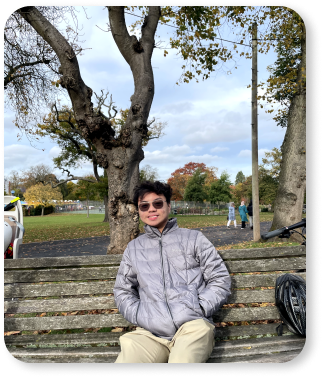
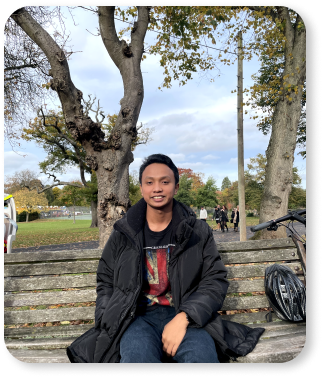
fix member info and picture, navbar to sticky

diff --git a/frontend-app/src/components/Homepage/OrgMember.jsx b/frontend-app/src/components/Homepage/OrgMember.jsx
@@ -44,7 +44,7 @@ const festivalIndonesia = [
 const talentSportsHobby = [
     {
         Nama: "Sandi Fajar Pratama",
-        Posisi: "Kepala Divisi Talent, Sports, and Hobby",
+        Posisi: "Head of Talent, Sports, and Hobby",
         Picture: orgMemberImgs["tsh_1.png"],
     },
     {
@@ -62,7 +62,7 @@ const talentSportsHobby = [
 const hwfk = [
     {
         Nama: "Arifah Rahmi",
-        Posisi: "Kepala Divisi Health, Wellbeing, Family and Kids",
+        Posisi: "Head of Health, Wellbeing, Family and Kids",
         Picture: orgMemberImgs["hwfk_1.png"],
     },
     {
@@ -75,7 +75,7 @@ const hwfk = [
 const entrepreunership = [
     {
         Nama: "Micha Paramitha",
-        Posisi: "Kepala Divisi Entrepreneurship",
+        Posisi: "Head of Entrepreneurship",
         Picture: orgMemberImgs["entre_1.png"],
     },
     {
@@ -98,7 +98,7 @@ const entrepreunership = [
 const socmed = [
     {
         Nama: "Keysha Aira Rizki Riyadi",
-        Posisi: "Kepala Divisi Social Media and Public Relations",
+        Posisi: "Head of Social Media and Public Relations",
         Picture: orgMemberImgs["socmed_1.png"],
     },
     {
@@ -126,7 +126,7 @@ const socmed = [
 const profDev = [
     {
         Nama: "Fildzah Cindra Yunita",
-        Posisi: "Kepala Divisi Professional Development and Institutional Affairs",
+        Posisi: "Head of Professional Development and Institutional Affairs",
         Picture: orgMemberImgs["profDev_1.png"],
     },
     {
@@ -144,7 +144,7 @@ const profDev = [
 const orgDev = [
     {
         Nama: "Fakhruddin Wirakusuma",
-        Posisi: "Kepala Divisi Organisational Development and Engagement",
+        Posisi: "Head of Organisational Development and Engagement",
         Picture: orgMemberImgs["orgDev_1.png"],
     },
     {
@@ -154,14 +154,14 @@ const orgDev = [
     },
     {
         Nama: "Andrea Nabilla Supit",
-        Posisi: "",
+        Posisi: "Head of Organisational Development Strategy Subdivision",
         Picture: orgMemberImgs["orgDev_3.png"],
     },
 ];
 
 const academic = [
     {
-        Nama: "Anisa Nurfirda Ramadhani",
+        Nama: "Anisa Nurfirda Ramdhani",
         Posisi: "Head of Academic Support, Data, and Information",
         Picture: orgMemberImgs["academic_1.png"],
     },
@@ -182,9 +182,11 @@ const academic = [
     },
 ];
 
-const generateCards = (members) =>
-    members.map((member) => (
+const generateCards = (members, name) =>
+    members.map((member, index) => (
         <CardProfile
+            team={name}
+            index={index}
             nama={member.Nama}
             posisi={member.Posisi}
             picture={member.Picture}
@@ -200,12 +202,3 @@ export const socmedCards = generateCards(socmed);
 export const profDevCards = generateCards(profDev);
 export const orgDevCards = generateCards(orgDev);
 export const academicCards = generateCards(academic);
-
-// const OrgMember = (org) => {
-//     switch (org) {
-//         case "bph":
-//             return bph;
-//         case "talentSportsHobby":
-//             return talentSportsHobby;
-//     }
-// };

diff --git a/frontend-app/src/components/PPIHeader.jsx b/frontend-app/src/components/PPIHeader.jsx
@@ -1,18 +1,25 @@
-import React from "react";
+import React, { useEffect } from "react";
 import logo_ppi from "../image/logo_ppi.png";
 import Navbar from "react-bootstrap/Navbar";
 import Nav from "react-bootstrap/Nav";
 import NavbarBrand from "react-bootstrap/esm/NavbarBrand";
 
 const PPIHeader = () => {
+    const currentLocation = window.location.href.split("/");
+    useEffect(() => {
+        const test =
+            currentLocation[currentLocation.length - 1] === "" ? "#home" : "/";
+        console.log(test);
+    }, []);
+
     return (
         <>
-            <Navbar expand="lg">
-                <NavbarBrand className="ps-4">
+            <Navbar bg="light" sticky="top">
+                <NavbarBrand className="ps-5" href="/">
                     <img
                         src={logo_ppi}
                         // src={`${serverBaseURI}/logo_ppi.png`}
-                        class="p-4 mx-auto d-block img-fluid"
+                        class="mx-auto d-block img-fluid"
                         alt="logo-ppi"
                     ></img>
                 </NavbarBrand>
@@ -22,7 +29,16 @@ const PPIHeader = () => {
                     className="justify-content-center"
                 >
                     <Nav id="navbar-links">
-                        <Nav.Link href="/">Home</Nav.Link>
+                        <Nav.Link
+                            href={
+                                currentLocation[currentLocation.length - 1] ===
+                                ""
+                                    ? "#home"
+                                    : "/"
+                            }
+                        >
+                            Home
+                        </Nav.Link>
                         <Nav.Link href="#aboutUs">About Us</Nav.Link>
                         <Nav.Link href="https://bit.ly/MIBRegistration">
                             Registration

diff --git a/frontend-app/src/components/Homepage/CarouselBody.jsx b/frontend-app/src/components/Homepage/CarouselBody.jsx
@@ -114,7 +114,11 @@ const CarouselBody = () => {
               ))
             : null;
 
-        content = <Carousel interval={null}>{postList}</Carousel>;
+        content = (
+            <Carousel id="home" interval={null}>
+                {postList}
+            </Carousel>
+        );
 
         // content = (
         // 	<Carousel interval={null}>

diff --git a/frontend-app/src/index.css b/frontend-app/src/index.css
@@ -77,7 +77,7 @@ code {
 }
 
 #navbar-links > a {
-    font-size: 25px;
+    /* font-size: 25px; */
     font-weight: 1000;
     margin-right: 2em;
 }
@@ -230,6 +230,10 @@ code {
     color: white;
     /* color: #86543b; */
     outline: black 1px;
+}
+
+.next-button {
+    position: absolute;
 }
 
 @media screen and (max-width: 475px) {
